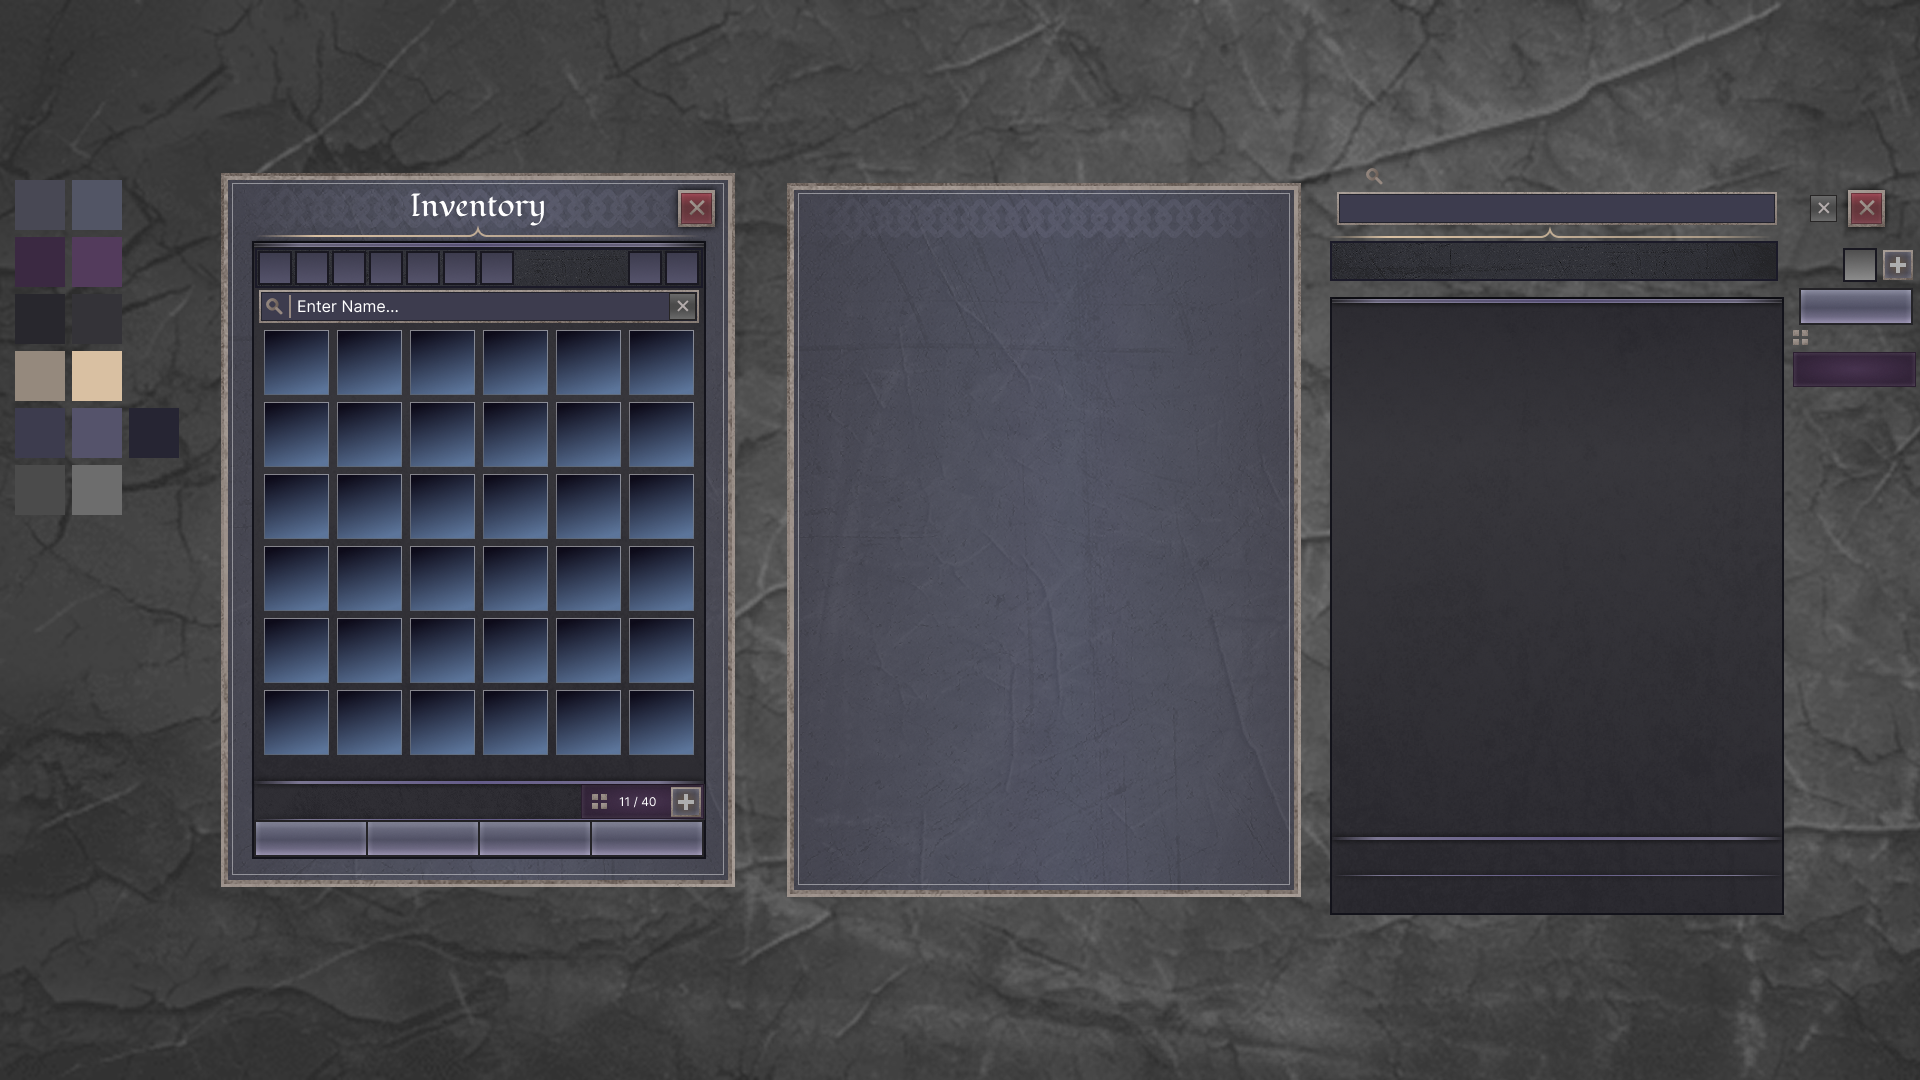
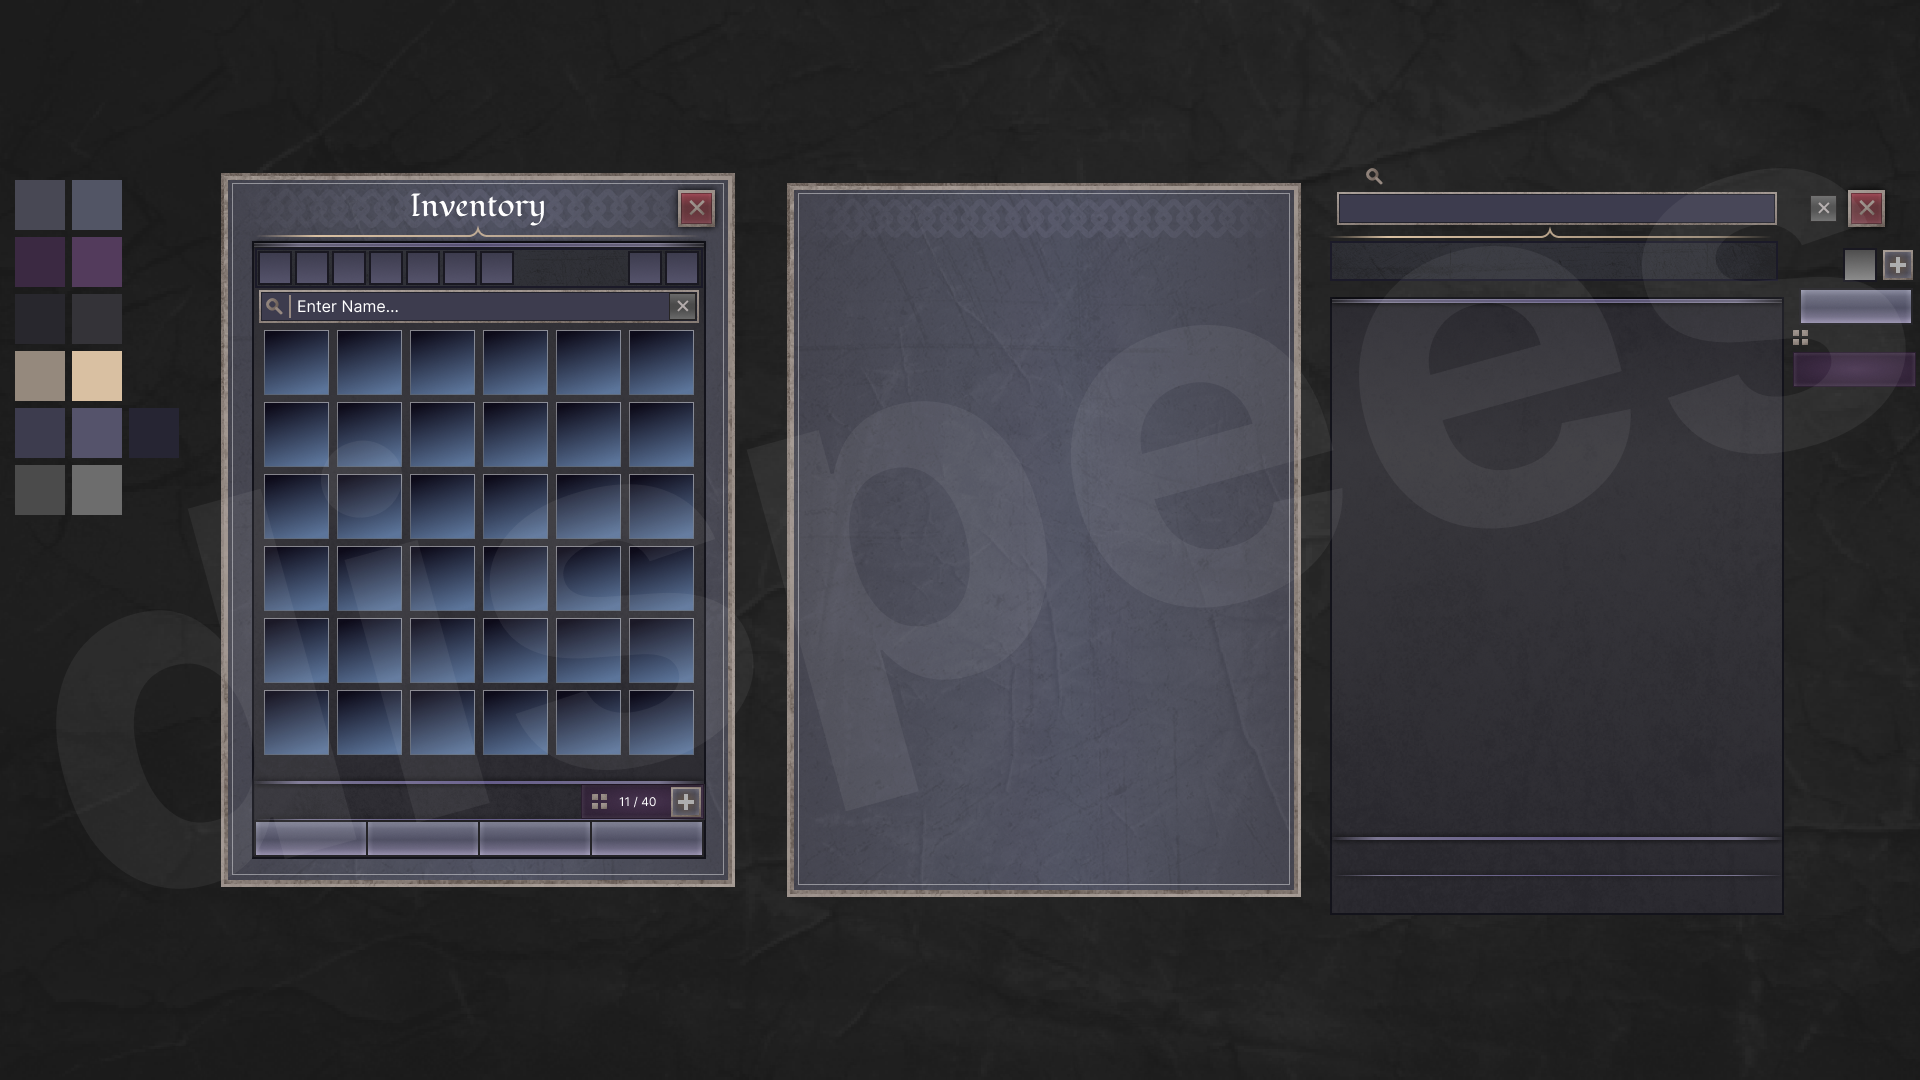
edit

diff --git a/index.html b/index.html
@@ -57,7 +57,7 @@
           <br> <br> <br>
           <div class="section-title">
 
-            <h2>Recent work</h2>
+            <h2>Recent works</h2>
           </div>
 
 
@@ -73,7 +73,7 @@
                 </p>
               </a>
 
-              <a href="Images/Project1.png" class="project-card">
+              <a href="Images/Project2.png" class="project-card">
                 <div class="project-media">
                   <img src="Images/Project2.png" alt="Content Name">
                 </div>
@@ -83,7 +83,18 @@
                   [Made in Figma]
                 </p>
               </a>
-          </div>
+
+              <a href="Images/Project3.png" class="project-card">
+                <div class="project-media">
+                  <img src="Images/Project3.png" alt="Content Name">
+                </div>
+                <h3 class="project-title">Gui for Simulator</h3>
+                <p class="project-desc">
+                  Description: Shop Gui, Revive Gui, Lucky Whell Gui, Gifts Gui  <br>
+                  [Made in Figma]
+                </p>
+              </a>
+          </div>    
 
          
 

diff --git a/style.css b/style.css
@@ -210,7 +210,7 @@ body {
 
   .projects-grid {
     display: grid;
-    grid-template-columns: repeat(2, 450px);
+    grid-template-columns: repeat(3, 450px);
     justify-content: center;
     gap: 24px;
     width: fit-content;
